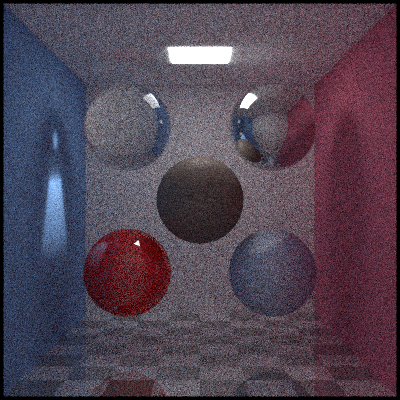
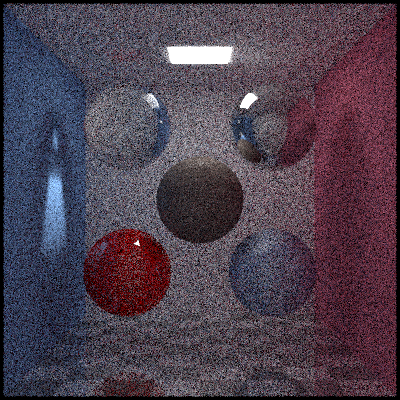
Command line interface

diff --git a/src/image.hpp b/src/image.hpp
@@ -3,6 +3,10 @@
 #include <iostream> 
 #include <filesystem>
 
+#ifdef _WIN32
+#include <Windows.h>
+#endif
+
 #define STBI_MSC_SECURE_CRT
 #define STB_IMAGE_WRITE_IMPLEMENTATION
 #define STB_IMAGE_IMPLEMENTATION
@@ -35,7 +39,7 @@ namespace art {
 
         glm::vec3 GetPixelColor(uint32_t px, uint32_t py) const {
             // cant sample out of bounds
-            if (!(0 <= px <= m_width) || !(0 <= px <= m_height)) {
+            if (!(0 <= px && px <= m_width) || !(0 <= px && px <= m_height)) {
                 std::cerr << "cant get x = " << px << ", y = " << py << " from image with width = " << m_width << ", height = " << m_height << "\n";
                 return glm::vec3(1, 0, 1);
             }
@@ -71,6 +75,10 @@ namespace art {
 
             int res = stbi_write_png(filePath.c_str(), m_width, m_height, m_numChannels, m_data, m_width * m_numChannels);
             assert(res != 0);
+
+#ifdef _WIN32
+            ShellExecute(NULL, "open", filePath.c_str(), NULL, NULL, SW_SHOWDEFAULT);
+#endif
         }
 
         void LoadFromFile(const std::string &filename) {

diff --git a/src/camera.hpp b/src/camera.hpp
@@ -75,7 +75,8 @@ namespace art {
 			// pre compute
 			float pixel_scale = 1.0f / (stratNumRow * stratNumRow);
 
-			std::clog << "Starting to render...\n" << std::flush;
+			// main loop
+			std::cout << "Starting to render...\n" << std::flush;
 
 #define MT 1
 #if MT
@@ -96,14 +97,14 @@ namespace art {
 					}
 
 					std::stringstream msg;
-					msg << "Row " << j << "/" << height << " done\n";
+					msg << "\tRow " << j << "/" << height << " done\n";
 					std::cout << msg.str();
 
 				}
 			);
 #else
 			for (uint32_t j = 0, je = image.GetHeight(); j != je; ++j) {
-				std::clog << std::setprecision(2) << "\tProgress: " << int((float(j) / float(image.GetHeight())) * 100) << "%" << '\n' << std::flush;
+				std::cout << std::setprecision(2) << "\tProgress: " << int((float(j) / float(image.GetHeight())) * 100) << "%" << '\n' << std::flush;
 				for (uint32_t i = 0, ie = image.GetWidth(); i != ie; ++i) {
 
 					glm::vec3 pixelColor(0);

diff --git a/src/main.cpp b/src/main.cpp
@@ -9,8 +9,25 @@
 #include "scene-parser.hpp"
 
 
-int main() {
-    art::SceneParser parser{"cornell-box"};
+void ShowTutorial() {
+    std::cout << "\n=== Akihiko Path Tracer ===\n\n";
+    std::cout << "Usage:   ./PathTracing <scene-name>\n";
+    std::cout << "Example: ./PathTracing cornell-box\n\n";
+    std::cout << "None: default search directory is 'project-root/scenes/'\n";
+    std::cout << "(but you can specify absolute path to yaml scene file)\n";
+    std::cout << "Resulting image will be saved in 'project-root/output/'\n";
+    std::cout << "\n===========================\n\n";
+}
+
+
+int main(int argc, char *argv[]) {
+
+    if (argc != 2) {
+        ShowTutorial();
+        return 0;
+    }
+
+    art::SceneParser parser{std::string(argv[1])};
 
     {
         art::Timer timer{"Rendering"};

diff --git a/src/utils.hpp b/src/utils.hpp
@@ -1,13 +1,15 @@
 #pragma once
 
 #include <cstdlib>
-
+#include <random>
 
 namespace art {
 
 	// Generate random number in range [0, 1)
 	inline float Random() {
-		return std::rand() / (RAND_MAX + 1.0);
+		static std::uniform_real_distribution<double> distribution(0.0, 1.0);
+		static std::mt19937 generator;
+		return distribution(generator);
 	}
 
 	inline float Random(float min, float max) {
